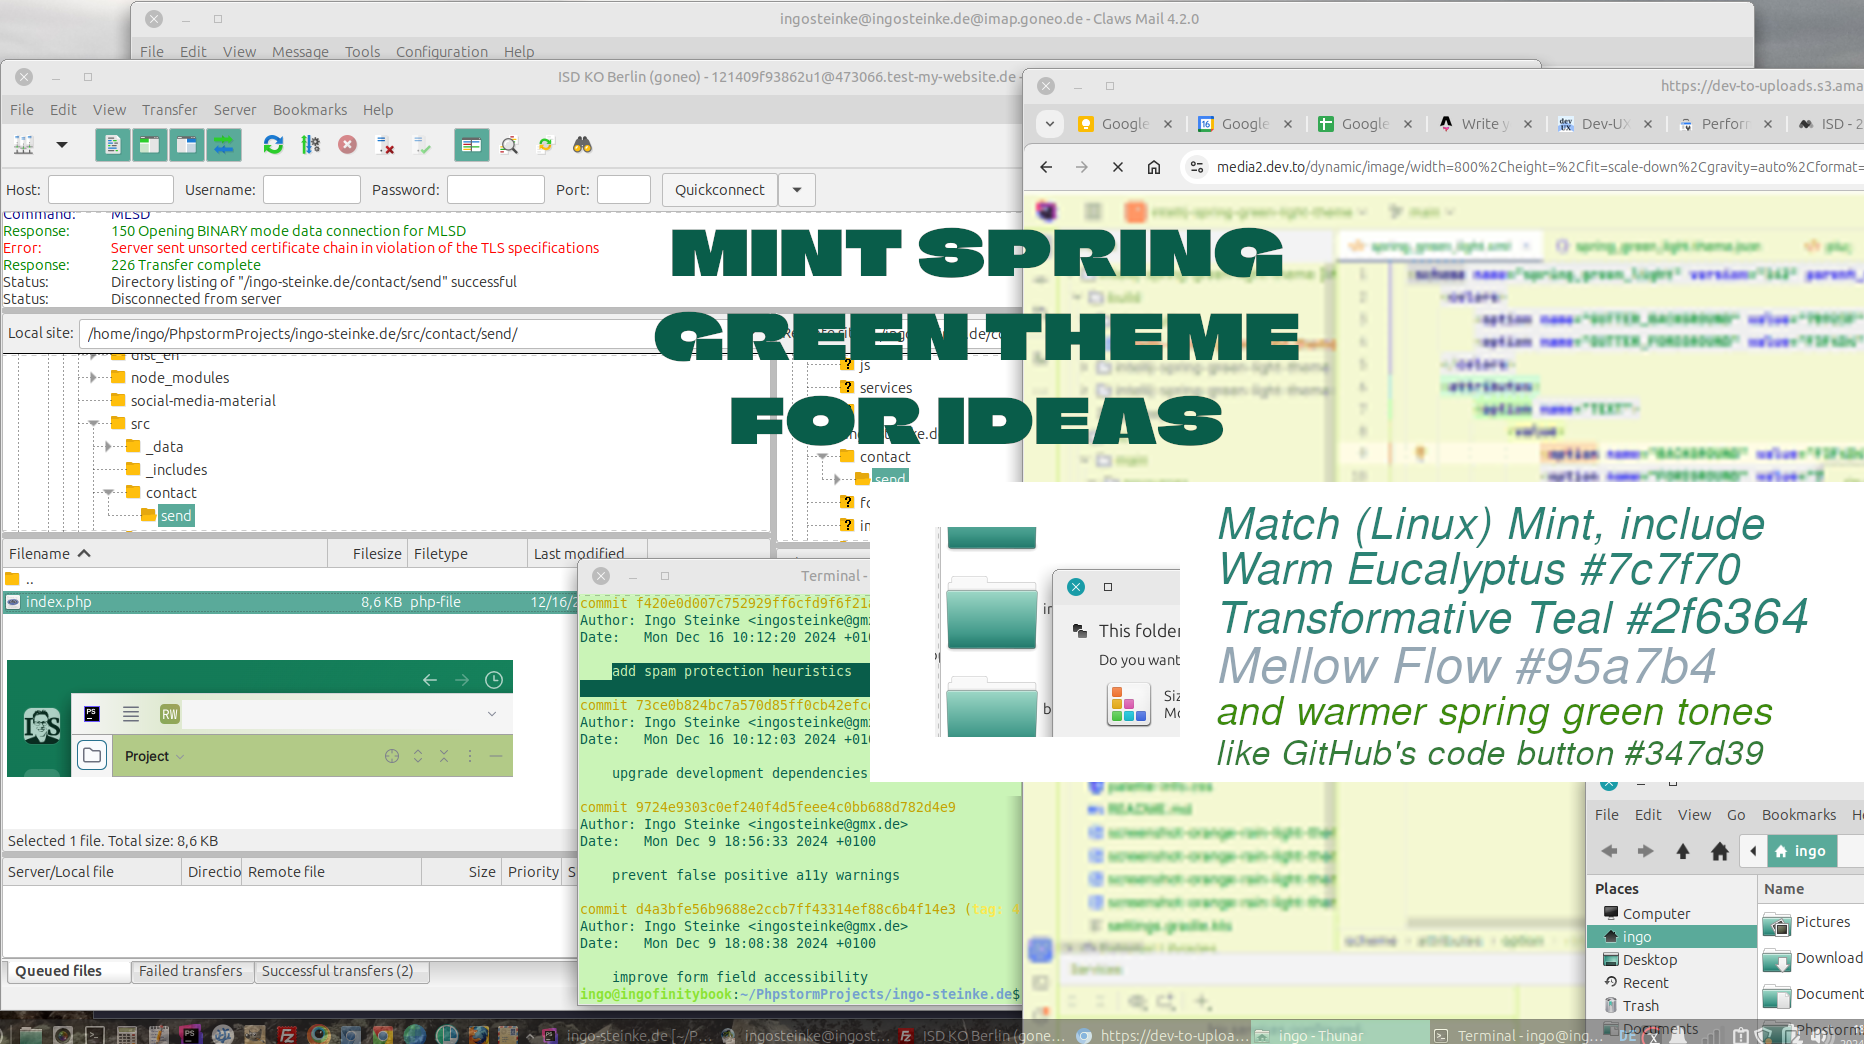
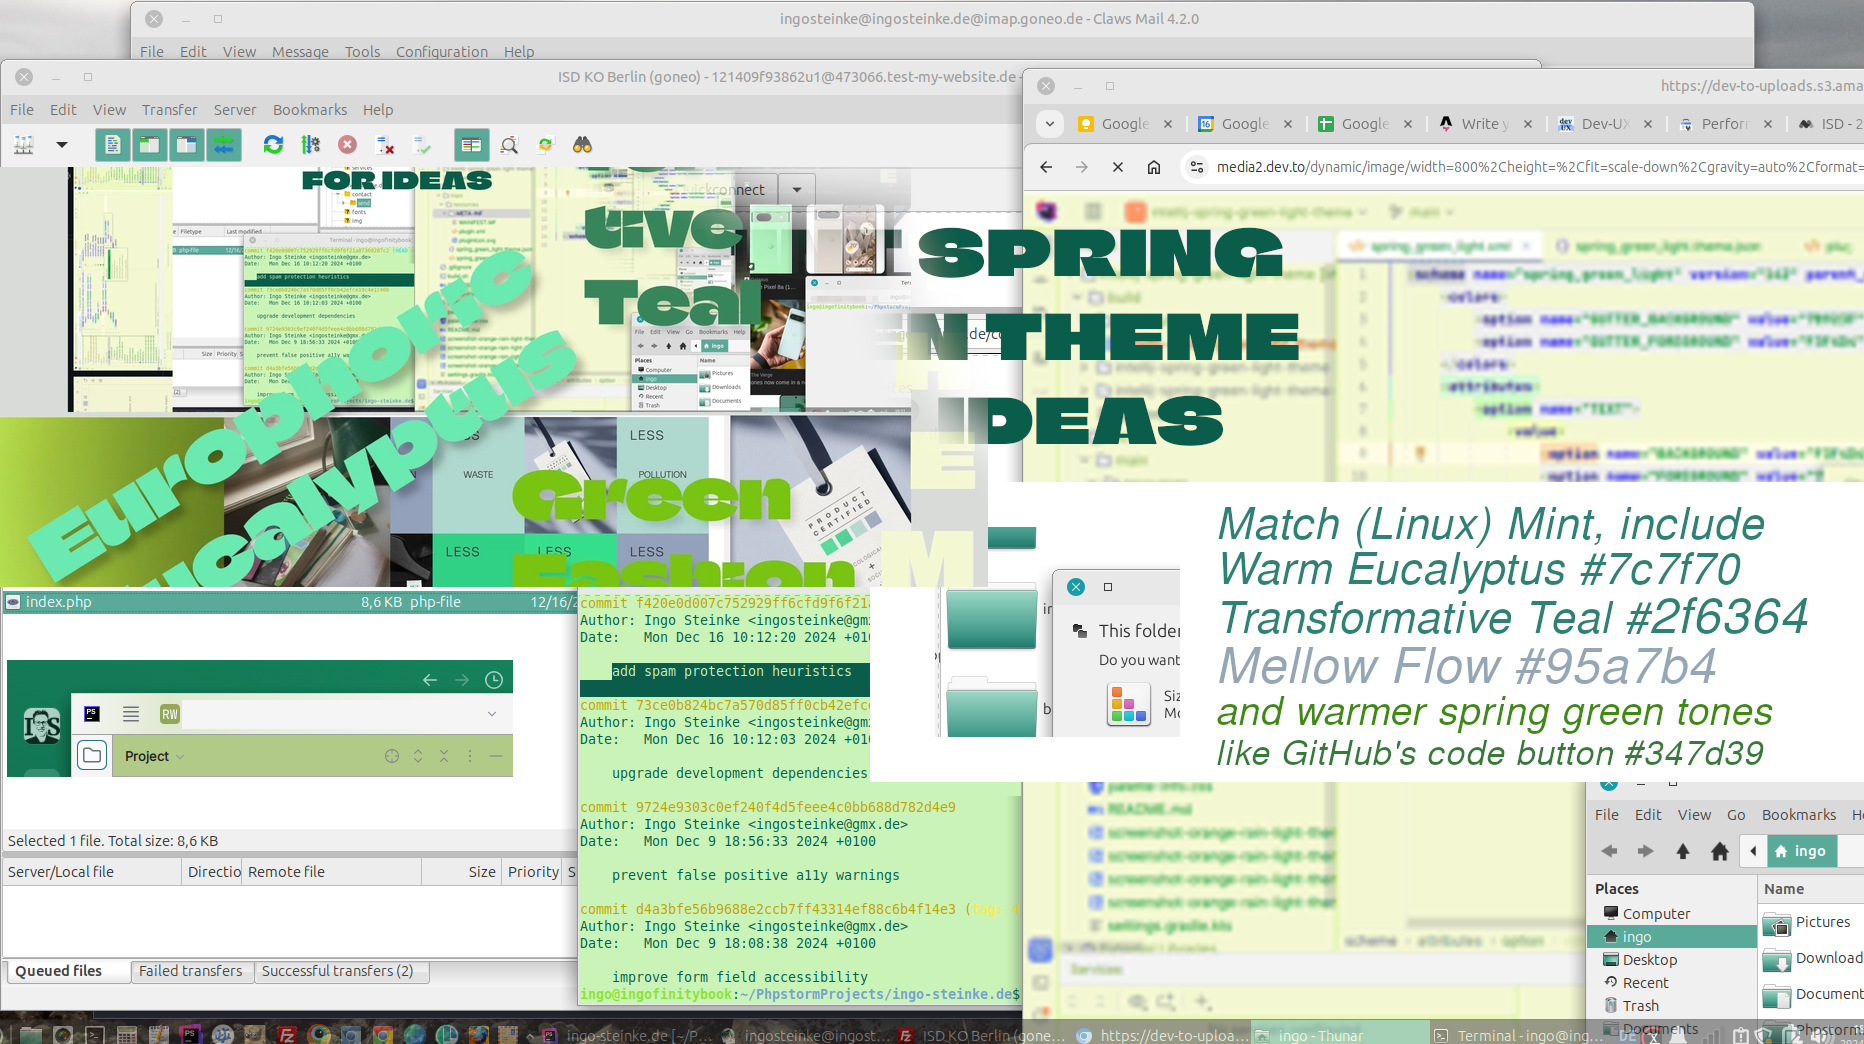
new green color palette

Changed region(s): [[0.0, 0.1533, 0.529, 0.5824]]

diff --git a/palette-info-orange.css b/palette-info-orange.css
@@ -1,24 +1,17 @@
 .orange_rain {
     --white: #ffffff;
-    --sepiaLight: #F9F5D5;
-    --foxYellowOrange: #E49000;
+    --sepiaLight: #F9F5D5; /* text editor background */
     --deepYellowOrange: #E49d41;
     --lightWood: #E3CA98;
-    --lighterWood: #f7deb6;
-    --sepiaOrangeLight: #ffe8b7;
+    --sepiaOrangeLight: #ffe8b7; /* gutter background */
     --sepiaOrangeDeep: #ffb37a;
-    --orangeSalmon: #F29463;
     --orangeLight: #FD9649;
     --deepOrange: #F38300;
-    --deepWood: #783d00;
     --reddishWood: #A95424;
+    --midnightBlue: #223255; /* text editor foreground */
     --midnightBlackVinyl: #040A19;
     --vinylBlueGray: #3A5477;
-    --midnightBlue: #223255;
-    --neonBlueDark: #6061FF;
     --neonBlueLight: #3581FF;
-    --neonBlueBeff: #49BEFF;
-    --pinkPurleShirt: #E0D1E3;
-    --GUTTER_BACKGROUND: #FD9649;
-    --GUTTER_FOREGROUND: #800E34;
+    --neonBlueBeff: #49BEFF; /* subtle hair lines */
+    --GUTTER_FOREGROUND: #800E34; /* gutter foreground */
 }

diff --git a/palette-info.css b/palette-info.css
@@ -1,14 +1,17 @@
 .spring_green {
-    --greenishYellow: #b6d600;
-    --pistachioYellow: #f7fc99;
     --white: #ffffff;
-    --greenishLight: #f3f4d4;
-    --greenishMedium: #d4d79e;
-    --springGreen: #b8cc82;
-    --islandGreen: #48a94b;
-    --brightGreen: #84b50e;
-    --darkGreen: #7b923f;
-    --mossBrown: #7d732f;
-    --black: #000000;
-    --radishRed: #eb3345;
+    --greenishLight: #f3f4d4; /* text editor background */
+    --thunarMint: #5aaa9a;
+    --greenishYellow: #b6d600;
+    --lightConsole: #caf4b7;  /* gutter background */
+    --pistachioYellow: #f7fc99;
+    --fadedFooter: #a7d1b6;
+    --neonGrass: #79c310;
+    --mellowFlow: #95a7b4;
+    --darkConsole: #095d4a; /* text editor foreground */
+    --greenEucalyptus: #728660;
+    --transformativeTeal: #2f6364;
+    --neonPastel: #aff1bb;
+    --neonMint: #6ae9b1; /* subtle hairlines */
+    --seriousMintGreen: #137956; /* gutter foreground */
 }

diff --git a/README.md b/README.md
@@ -1,7 +1,7 @@
 # Mint Green Light Theme
 
 <!-- Plugin description -->
-[Mint Green Light Theme](TODO) is a light IDE theme for JetBrains IDEs (PhpStorm, WebStorm, IntelliJ IDEA, etc.), version 2020.2 and above, tested up to 2024.2 (242) and should also support later IDEA versions. Based on Cute Pink Light Theme and JetBrains default light editor scheme. There is also an Orange Rain Dark Theme.
+[Mint Green Light Theme](TODO) is a light IDE theme for JetBrains IDEs (PhpStorm, WebStorm, IntelliJ IDEA, etc.), version 2020.2 and above, tested up to 2024.2 (242) and should also support later IDEA versions. Code based on Orange Rain Light Theme and JetBrains default light editor scheme.
 
 If you like to support development, you can open a pull request on GitHub.
 
